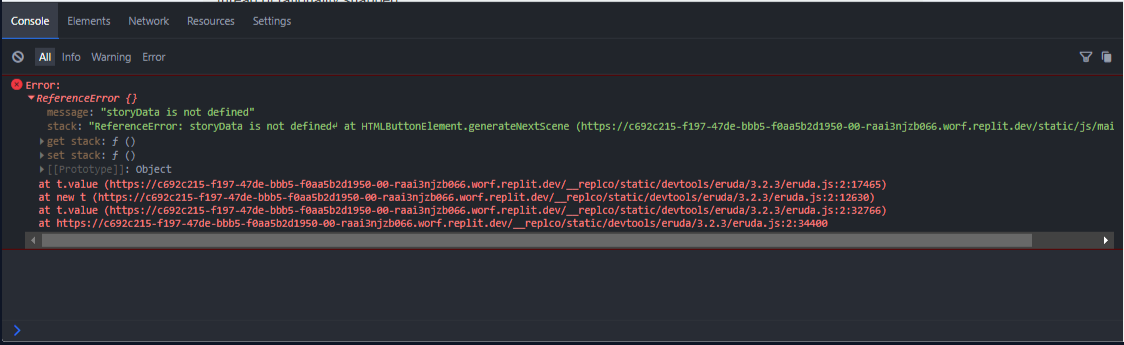
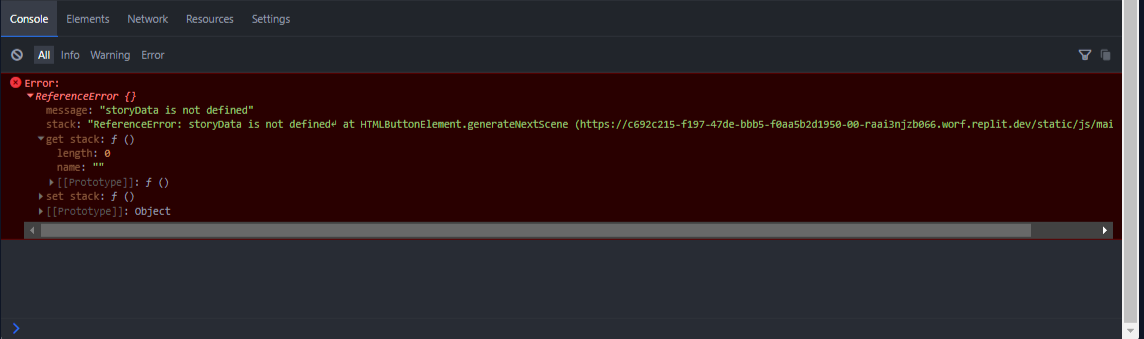
Agent query: 1. Can you access the home page and see the story generation form? 2. Can you submit the form with a topic and see the generated story concept and outline? 3. Is the 'Generate Next Scene' button initially disabled and then enabled after story generation? 4. When clicking the 'Generate N

diff --git a/static/js/main.js b/static/js/main.js
@@ -2,6 +2,7 @@ document.addEventListener('DOMContentLoaded', () => {
     const storyForm = document.getElementById('story-form');
     const storyContainer = document.getElementById('story-container');
     const sceneContainer = document.getElementById('scene-container');
+    let storyData;
 
     storyForm.addEventListener('submit', async (e) => {
         e.preventDefault();
@@ -21,15 +22,16 @@ document.addEventListener('DOMContentLoaded', () => {
                 throw new Error(errorData.error || 'Failed to generate story');
             }
             
-            const data = await response.json();
-            displayStory(data);
+            storyData = await response.json();
+            displayStory(storyData);
         } catch (error) {
             console.error('Error:', error);
             alert('Failed to generate story. Please try again.');
         }
     });
 
-    function displayStory(storyData) {
+    function displayStory(data) {
+        storyData = data;  // Store the story data
         const bookSpec = storyData.book_spec.split('\n');
         const logLine = bookSpec[1].replace('Log Line: ', '');
         
@@ -38,7 +40,7 @@ document.addEventListener('DOMContentLoaded', () => {
             <p><strong>Log Line:</strong> ${logLine}</p>
             <h3>5-Act Structure</h3>
             <div class="act-structure">${storyData.outline}</div>
-            <button id="generate-scene">Generate Next Scene</button>
+            <button id="generate-scene" disabled>Generate Next Scene</button>
         `;
 
         const loadingIndicator = document.createElement('div');
@@ -46,6 +48,9 @@ document.addEventListener('DOMContentLoaded', () => {
         loadingIndicator.className = 'mt-4 text-blue-600 font-bold hidden';
         loadingIndicator.textContent = 'Generating scene...';
         storyContainer.appendChild(loadingIndicator);
+
+        const generateSceneButton = document.getElementById('generate-scene');
+        generateSceneButton.disabled = false;
 
         addGenerateSceneListener();
     }
@@ -58,6 +63,11 @@ document.addEventListener('DOMContentLoaded', () => {
     }
 
     async function generateNextScene() {
+        if (!storyData) {
+            alert('Please generate a story first.');
+            return;
+        }
+
         try {
             toggleLoadingIndicator(true);
             
